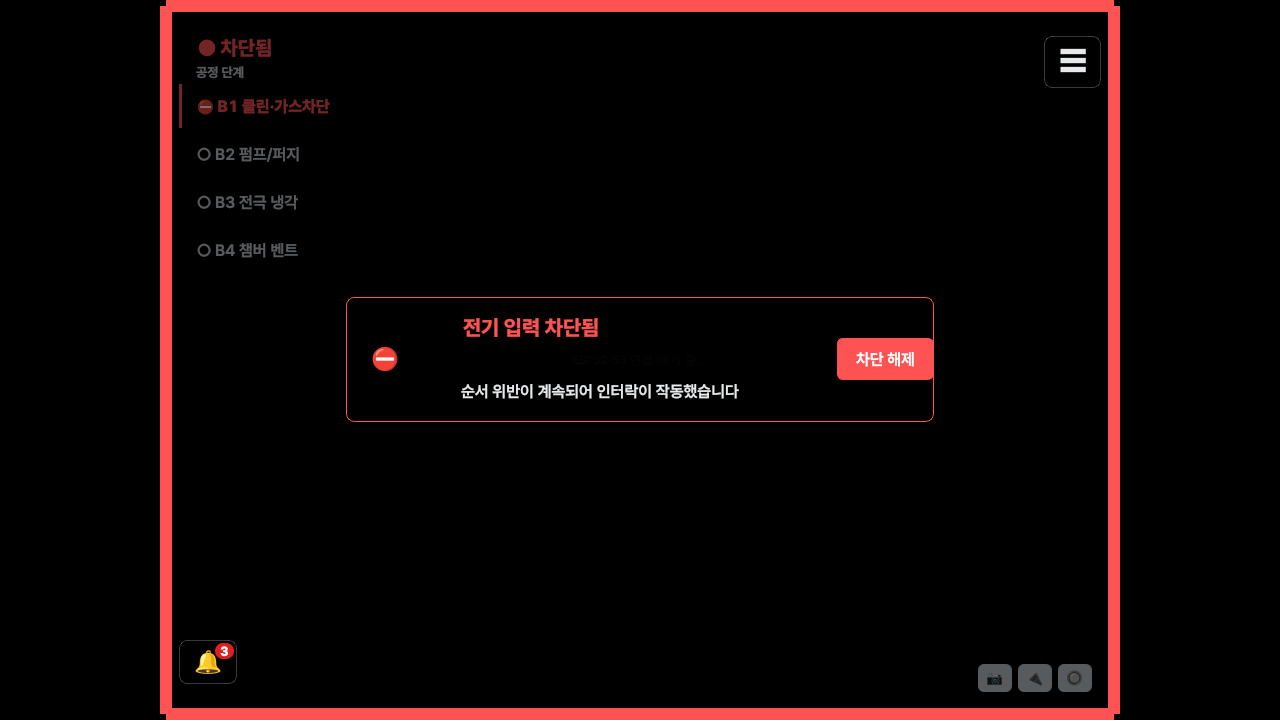
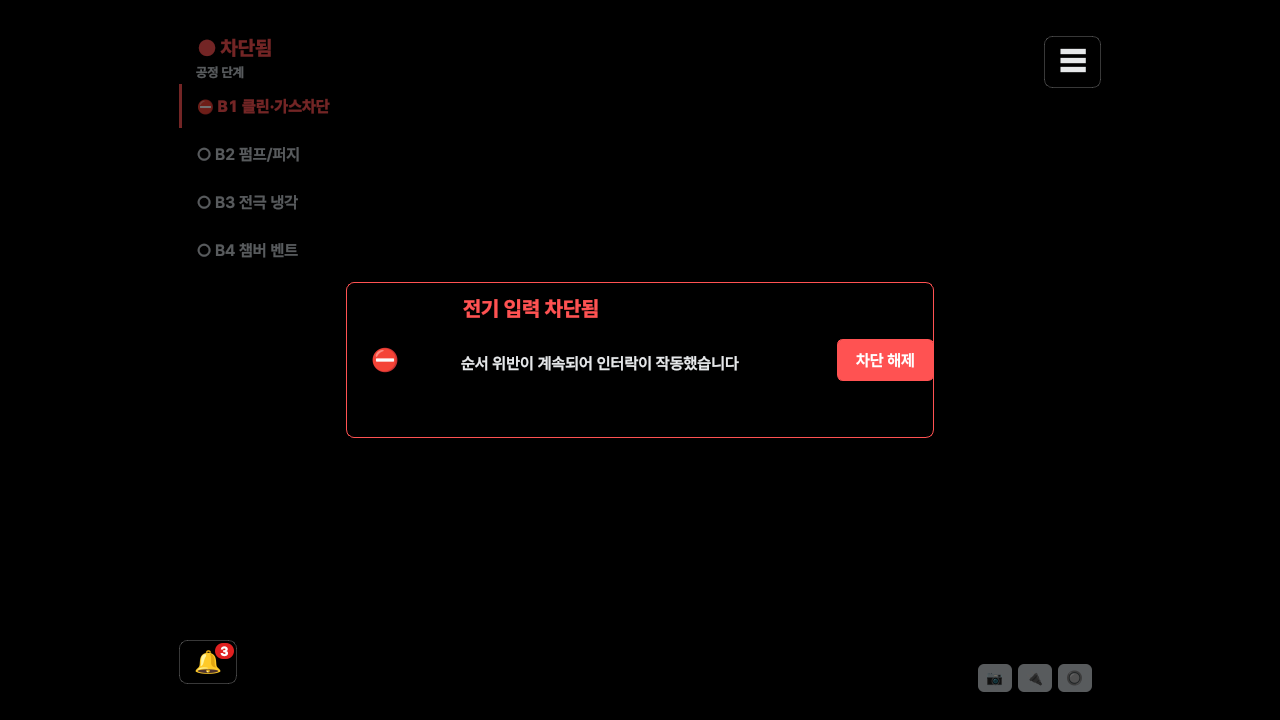
feat(overlay): 사용자 결정 — 화면 가장자리 테두리를 쓰지 않는다 · 경고·공구 경고·차단 박스를 같은 크기·자리(화면 가운데)로
- theme.GLOW_BORDER = False(되살리려면 True) — GlowFrame 은 상태만 기억한다
- 박스 높이는 실제 폭에서의 높이로 잰다(긴 문구를 폭 모른 채 두 줄로 접어 차단 박스만 20px 컸다) · 빈 둘째 줄도 자리를 둔다
- EMO 차단 문구를 두 줄로(「비상정지로 차단됐습니다」 / 「— EMO 를 복귀한 뒤 「차단 해제」를 누르세요」)

Claude-Session: https://claude.ai/code/session_01JDs5qRwEXjDBfduqnbPXNL

diff --git a/Demo/overlay.py b/Demo/overlay.py
@@ -423,8 +423,8 @@ class GaugePanel(_Panel):
 # [경고·차단] design §4.5·§4.6
 # =============================================================================
 
-_BANNER_POS = {"width": 0.44, "bottom": 0.13}
-_BLOCK_POS  = {"width": 0.46}
+# 경고·공구 경고·차단 박스는 같은 크기·자리 — 화면 정중앙(사용자 결정 2026-09-25).
+_ALERT_POS = {"width": 0.46}
 
 
 class GlowFrame(QWidget):
@@ -449,9 +449,13 @@ class GlowFrame(QWidget):
         self.hide()
 
     def set_level(self, level):
-        """level: None | "warn" | "block"."""
+        """level: None | "warn" | "block".
+
+        🔴 테두리는 theme.GLOW_BORDER 가 켜졌을 때만 그린다 — 기본 끔(사용자 결정 2026-09-25).
+           꺼져 있어도 상태(level)는 기억한다.
+        """
         self._level = level
-        if level is None:
+        if level is None or not getattr(theme, "GLOW_BORDER", False):
             self.hide()
             return
         token, border, spread = self._SPEC[level]
@@ -545,11 +549,14 @@ class AlertBanner(_Panel):
                     f"쥔 것: {wrong_name} — {want_name}로 바꿔 주세요",
                     "", release_text=None, indent2=False)
 
-    def show_block(self, reason="순서 위반이 계속되어 인터락이 작동했습니다"):
-        """차단 — 해제 버튼 있음(EMO 미복귀 거부는 기존 _release_block 이 담당)."""
+    def show_block(self, reason="순서 위반이 계속되어 인터락이 작동했습니다", hint=""):
+        """차단 — 해제 버튼 있음(EMO 미복귀 거부는 기존 _release_block 이 담당).
+
+        hint = 둘째 줄(들여쓰기) — EMO 차단은 복귀 방법을 적는다.
+        """
         self._mode = "block"
-        self._paint("danger", "⛔", "전기 입력 차단됨", reason, "",
-                    release_text="차단 해제", indent2=False)
+        self._paint("danger", "⛔", "전기 입력 차단됨", reason, hint,
+                    release_text="차단 해제", indent2=bool(hint))
 
     def _paint(self, token, mark, title, line1, line2, release_text, indent2):
         # 🔴 self._mode 는 show_* 가 여기 오기 **전에** 이미 새 값이다. 그래서 화면에
@@ -562,10 +569,12 @@ class AlertBanner(_Panel):
         self._icon.setStyleSheet(theme.text_qss(token, 800))
         self._title.setText(title)
         self._title.setStyleSheet(theme.text_qss(token, 800))
+        # 🔴 빈 줄도 자리를 둔다(빈칸 한 글자) — 순서 경고·공구 경고·차단 박스의 높이를
+        #    통일한다(사용자 결정 2026-09-25). 줄을 숨기면 박스마다 높이가 달라진다.
         for lbl, text in ((self._line1, line1), (self._line2, line2)):
-            lbl.setText(text)
+            lbl.setText(text or "\u00a0")
             lbl.setStyleSheet(theme.text_qss("text", 600))
-            lbl.setVisible(bool(text))
+            lbl.setVisible(True)
         self._line2.setStyleSheet(
             theme.text_qss("text", 600) + ("padding-left: 14px;" if indent2 else ""))
 
@@ -621,11 +630,14 @@ class AlertBanner(_Panel):
         #    마다 relayout 을 부르므로, 그대로 두면 등장 중에 위치가 튄다.
         if anim.busy(self):
             return
-        if self._mode == "block":
-            place(self, parent_rect, width=_BLOCK_POS["width"])       # 중앙을 가린다
-        else:
-            place(self, parent_rect, width=_BANNER_POS["width"],
-                  bottom=_BANNER_POS["bottom"])
+        # 모든 박스가 같은 크기·자리 — 화면 정중앙(사용자 결정 2026-09-25).
+        # 🔴 높이는 **실제 폭에서의 높이**로 잰다 — sizeHint 는 폭을 모른 채 긴 문구를 두 줄로
+        #    접어, 한 줄에 들어가는데도 차단 박스만 20px 커졌다.
+        pw, ph = parent_rect.width(), parent_rect.height()
+        w = int(pw * _ALERT_POS["width"])
+        h = self.heightForWidth(w) if self.hasHeightForWidth() else self.sizeHint().height()
+        self.setGeometry(QRect(parent_rect.left() + (pw - w) // 2,
+                               parent_rect.top() + (ph - h) // 2, w, h))
         # 위치가 정해진 **지금** 등장한다(_paint 시점에는 목표 위치를 몰랐다).
         if self._needs_entrance:
             self._needs_entrance = False

diff --git a/Demo/selftest/test_overlay.py b/Demo/selftest/test_overlay.py
@@ -487,7 +487,7 @@ def _px(root, x, y):
 
 
 def test_g8_glow_and_banner_paint():
-    """G8 — 발광 테두리와 배너 판이 실제로 그려진다(픽셀 · 리뷰 U7·U8)."""
+    """G8 — 배너 판이 실제로 그려진다(픽셀 · 리뷰 U8). 가장자리 테두리는 아래 별도 시험(사용자 결정)."""
     print("\n[G8] 발광·배너 그리기")
     old_bg = getattr(theme, "PANEL_BACKGROUND", True)
     theme.PANEL_BACKGROUND = False                   # 기본값 — 이때 안 그려졌다
@@ -500,9 +500,6 @@ def test_g8_glow_and_banner_paint():
         alert.show_block()
         alert.setGeometry(QRect(200, 200, 400, 150))
         root.show(); _app.processEvents()
-        x = glow.geometry().left() + 3
-        check(_px(root, x, 300) == theme.C("danger").lower(),
-              f"테두리 자리 = {_px(root, x, 300)} (기대 {theme.C('danger')})")
         check(_px(root, 210, 280) != "#808080",
               f"배너 판 = {_px(root, 210, 280)} (배경 회색 그대로면 안 그려진 것)")
         alert.apply_theme()                          # 떠 있는 동안 테마 재적용
@@ -511,6 +508,52 @@ def test_g8_glow_and_banner_paint():
         root.close()
     finally:
         theme.PANEL_BACKGROUND = old_bg
+
+def test_glow_border_off_by_default():
+    """사용자 결정(2026-09-25) — 화면 가장자리 주황·빨강 테두리를 쓰지 않는다. 되살리려면 theme.GLOW_BORDER=True."""
+    print("\n[G8] 가장자리 테두리 — 기본 끔")
+    root = QWidget(); root.resize(800, 600); root.setStyleSheet("background:#808080;")
+    glow = GlowFrame(root); glow.relayout(root.rect())
+    glow.set_level("block")
+    root.show(); _app.processEvents()
+    x = glow.geometry().left() + 3
+    check(_px(root, x, 300) == "#808080", f"기본값 — 테두리 자리 = {_px(root, x, 300)} (배경 그대로여야 한다)")
+    check(glow.level == "block", "상태(level)는 기억한다")
+    old = getattr(theme, "GLOW_BORDER", None)
+    theme.GLOW_BORDER = True
+    try:
+        glow.set_level("block"); _app.processEvents()
+        check(_px(root, x, 300) == theme.C("danger").lower(),
+              f"켜면 테두리 자리 = {_px(root, x, 300)} (기대 {theme.C('danger')})")
+    finally:
+        if old is None:
+            del theme.GLOW_BORDER
+        else:
+            theme.GLOW_BORDER = old
+    root.close()
+
+
+def test_alert_boxes_same_place():
+    """사용자 결정(2026-09-25) — 순서 경고·공구 경고·차단 박스는 같은 크기·자리(화면 가운데)."""
+    print("\n[배너] 경고·차단 박스 통일")
+    host = QWidget(); host.setGeometry(SCREEN)
+    rects = {}
+    for mode, show in (("order", lambda b: b.show_order_violation("B1", "클린·가스차단")),
+                       ("tool", lambda b: b.show_wrong_tool("드라이버", "렌치")),
+                       ("block", lambda b: b.show_block()),
+                       ("emo", lambda b: b.show_block("비상정지로 차단됐습니다",
+                                                      "— EMO 를 복귀한 뒤 「차단 해제」를 누르세요"))):
+        b = AlertBanner(host)
+        b.apply_theme()
+        show(b)
+        b.relayout(SCREEN)
+        rects[mode] = b.geometry()
+    sizes = {m: (r.width(), r.height()) for m, r in rects.items()}
+    check(len(set(sizes.values())) == 1, f"크기가 같다 — {sizes}")
+    c = SCREEN.center()
+    check(all(abs(r.center().x() - c.x()) <= 2 and abs(r.center().y() - c.y()) <= 2
+              for r in rects.values()),
+          f"모두 화면 정중앙 — {[(m, r.center().x(), r.center().y()) for m, r in rects.items()]}")
 
 if __name__ == "__main__":
     for _name, _fn in sorted(globals().items()):

diff --git a/Demo/safety_console.py b/Demo/safety_console.py
@@ -1408,7 +1408,8 @@ class SafetyConsole(QMainWindow):
             else:
                 # 🔴 EMO 차단을 「순서 위반」이라 적지 않는다(G5) — 해제하려면 EMO 부터
                 #    복귀해야 한다는 것을 문구가 알려야 한다.
-                self.alert.show_block("비상정지로 차단됐습니다 — EMO 를 복귀한 뒤 해제하세요")
+                self.alert.show_block("비상정지로 차단됐습니다",
+                                      "— EMO 를 복귀한 뒤 「차단 해제」를 누르세요")
                 self._notify("danger", "비상정지", "전기 입력 차단됨")
             self._dim_others(True)
         elif new == State.WARNING:

diff --git a/Demo/theme.py b/Demo/theme.py
@@ -101,6 +101,11 @@ DIM_OPACITY = 0.40
 #        의도한 것이 아니었으므로 껐다 켤 수 있게만 만들어 둔다.)
 PANEL_BACKGROUND = False
 
+# 🔴 경고·차단 때 화면(영상 영역) 가장자리의 주황·빨강 발광 테두리를 그릴지.
+#    사용자 결정(2026-09-25): **쓰지 않는다** — 경고·차단은 가운데 박스로만 알린다.
+#    되살리려면 True(GlowFrame 은 상태만 기억하고 있다).
+GLOW_BORDER = False
+
 _current = DEFAULT_THEME
 
 
